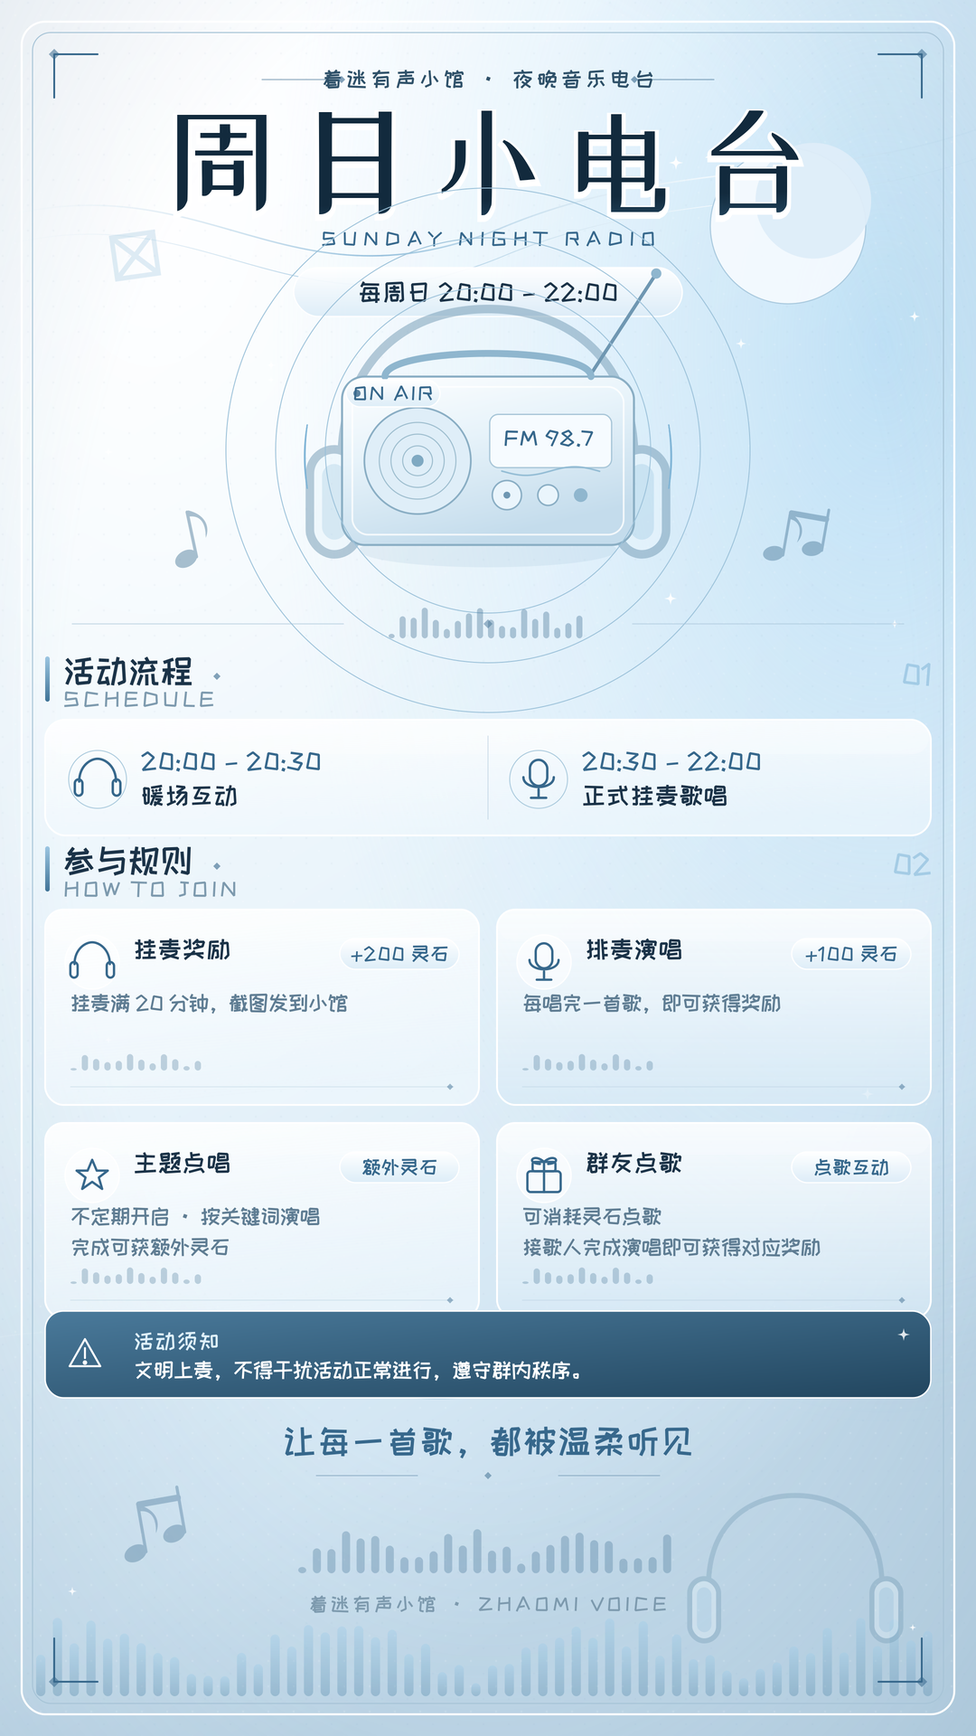
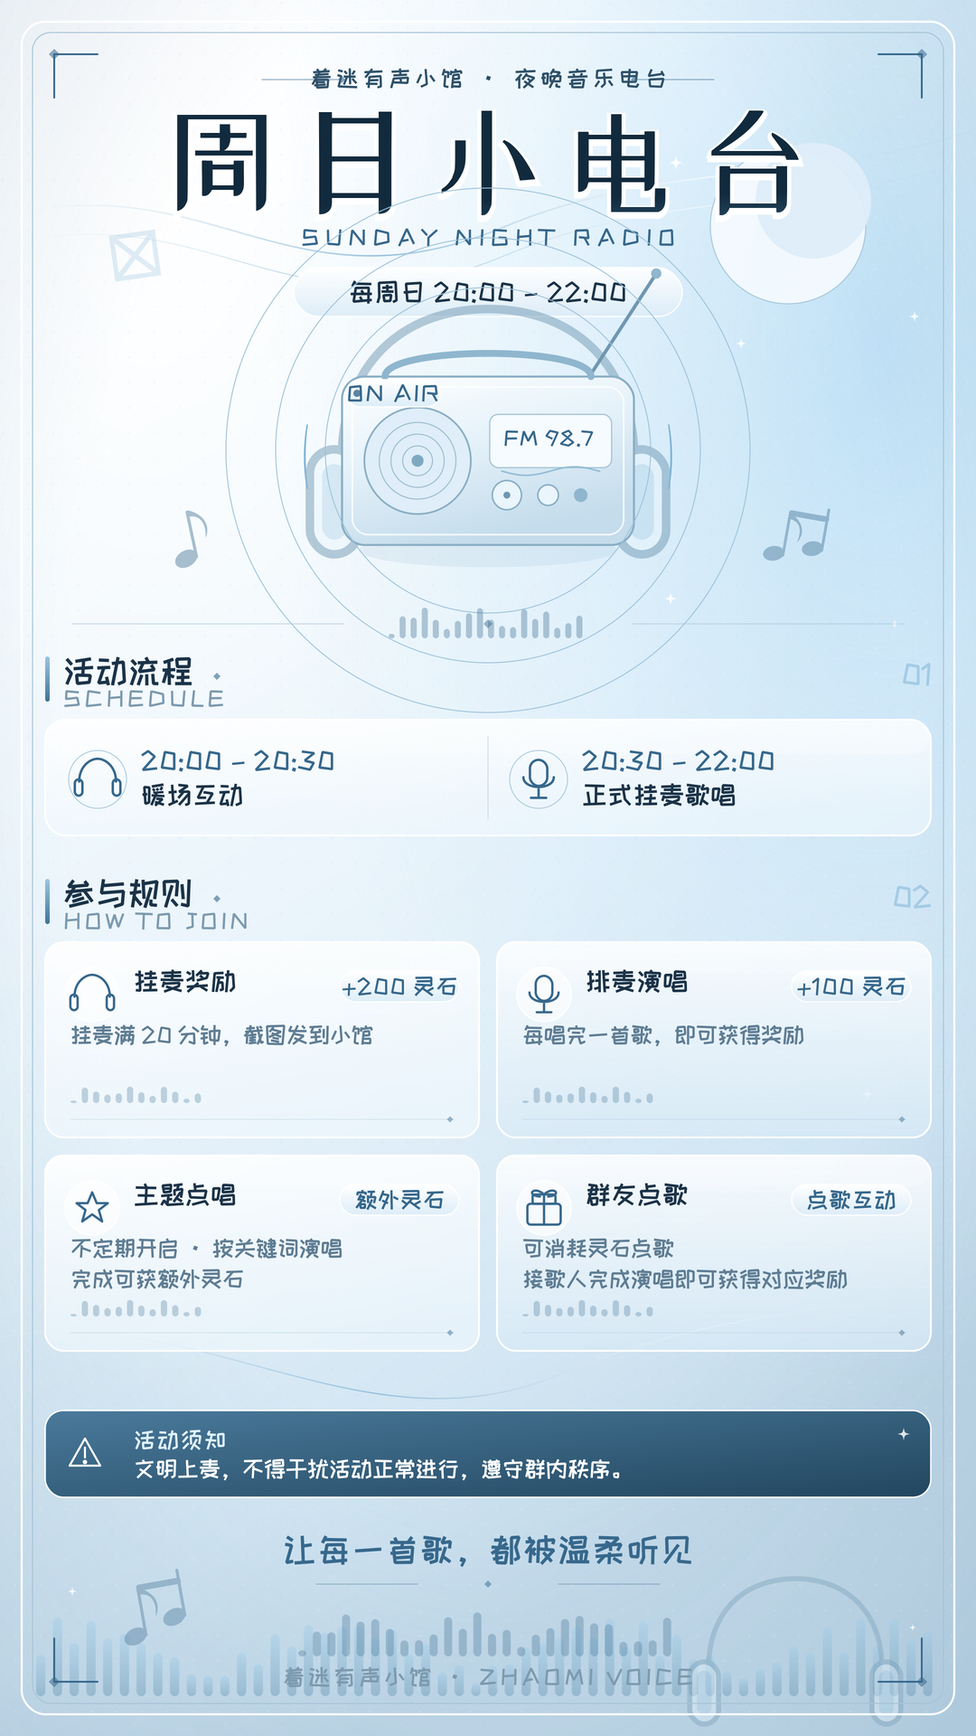
字号统一放大、周三周日板块间距拉开饱满化

diff --git a/poster/rules-posters/generate.py b/poster/rules-posters/generate.py
@@ -436,7 +436,7 @@ def section(x, y, cn, en, width=980, num=None):
     out = []
     out.append(rect(x, y - 28, 5, 50, 2.5, fill="url(#accentGrad)", op=1))
     out.append(T(x + 20, y + 2, cn, size=38, fill=INK, weight=700, font=SANS, ls=1))
-    out.append(T(x + 20, y + 28, en, size=24, fill=SOFT, weight=600, font=SANS, ls=4))
+    out.append(T(x + 20, y + 28, en, size=26, fill=SOFT, weight=600, font=SANS, ls=4))
     if num:
         out.append(T(x + width, y + 4, num, size=34, fill=ICE, weight=700, anchor="end", font=SERIF, op=0.55))
     lx1 = x + 190
@@ -447,7 +447,7 @@ def section(x, y, cn, en, width=980, num=None):
     return "".join(out)
 
 
-def pill(cx, y, w, h, text, size=24, fill="url(#pillGrad)", color=ICE_DEEP, op=1, weight=600, ls=1):
+def pill(cx, y, w, h, text, size=26, fill="url(#pillGrad)", color=ICE_DEEP, op=1, weight=600, ls=1):
     return "".join([rect(cx - w / 2, y, w, h, h / 2, fill=fill, op=op, stroke=WHITE, sw=1.4),
                     T(cx, y + h / 2 + size * 0.36, text, size=size, fill=color, weight=weight,
                       anchor="middle", font=SANS, ls=ls)])
@@ -604,18 +604,18 @@ def build_main():
     o.append(line(694, 86, 780, 86, stroke=ICE_DEEP, sw=1.2, op=0.5))
     o.append(diamond(390, 86, 4, fill=ICE_DEEP, op=0.6))
     o.append(diamond(690, 86, 4, fill=ICE_DEEP, op=0.6))
-    o.append(T(540, 94, "着迷有声小馆 · 小馆成长体系", size=24, fill=INK2, weight=600, anchor="middle", ls=5))
+    o.append(T(540, 94, "着迷有声小馆 · 小馆成长体系", size=26, fill=INK2, weight=600, anchor="middle", ls=5))
 
     # 主标题（花字艺术字体）
     o.append(T(540, 278, "音浪榜", size=196, fill=WHITE, weight=400, anchor="middle", font=ART_BOLD, ls=14, op=0.95, stroke=WHITE, sw=10))
     o.append(T(540, 274, "音浪榜", size=196, fill="url(#titleGrad)", weight=400, anchor="middle", font=ART_BOLD, ls=14))
-    o.append(T(540, 330, "VOICE WAVE  ·  LEVEL SYSTEM", size=22, fill=ICE_DEEP, weight=700, anchor="middle", ls=7, op=0.8))
+    o.append(T(540, 330, "VOICE WAVE  ·  LEVEL SYSTEM", size=26, fill=ICE_DEEP, weight=700, anchor="middle", ls=7, op=0.8))
     o.append(T(540, 386, "以声会友 · 用音浪记录每一次开麦", size=32, fill=INK2, weight=500, anchor="middle", ls=3, font=SERIF))
 
     # 三个小标签
-    o.append(pill(292, 416, 160, 44, "语音打卡", size=22, color=INK2))
-    o.append(pill(472, 416, 160, 44, "歌唱比赛", size=22, color=INK2))
-    o.append(pill(652, 416, 160, 44, "周日电台", size=22, color=INK2))
+    o.append(pill(292, 416, 160, 44, "语音打卡", size=26, color=INK2))
+    o.append(pill(472, 416, 160, 44, "歌唱比赛", size=26, color=INK2))
+    o.append(pill(652, 416, 160, 44, "周日电台", size=26, color=INK2))
     o.append(diamond(540, 435, 5, fill=ICE_DEEP, op=0.5))
 
     # 分隔装饰
@@ -657,12 +657,12 @@ def build_main():
         o.append(rect(sx + 16, ry + 4, sw - 32, rh - 10, 14, fill=WHITE, op=0.4))
         o.append(ic(sx + 54, ry + rh / 2 + 1, 1.1, c=ICE_DEEP))
         o.append(circle(sx + 54, ry + rh / 2 + 1, 28, stroke="#a9c9dc", sw=1, op=0.65))
-        o.append(T(sx + 96, ry + 36, title, size=28, fill=INK, weight=700, ls=1))
-        o.append(T(sx + 96, ry + 66, sub, size=22, fill=MUT, weight=400, ls=0.5))
+        o.append(T(sx + 96, ry + 36, title, size=30, fill=INK, weight=700, ls=1))
+        o.append(T(sx + 96, ry + 66, sub, size=26, fill=MUT, weight=400, ls=0.5))
         # 分值徽章（数值+单位统一字号，居中）
         label = f"{val}{unit}"
         o.append(rect(sx + sw - 128, ry + (rh - 40) / 2, 108, 40, 20, fill="url(#pillGrad)", op=0.95, stroke=ICE, sw=1))
-        o.append(T(sx + sw - 74, ry + (rh - 40) / 2 + 29, label, size=24, fill=ICE_DEEP, weight=800, anchor="middle", font=SANS))
+        o.append(T(sx + sw - 74, ry + (rh - 40) / 2 + 29, label, size=26, fill=ICE_DEEP, weight=800, anchor="middle", font=SANS))
         ry += rh
 
     # ===== 二、扣分项 =====
@@ -676,9 +676,9 @@ def build_main():
     ry = dy + 60
     for i, (title, sub, val) in enumerate(deductions):
         o.append(circle(dx + 46, ry + 48, 27, fill=WHITE, op=0.55, stroke=ICE, sw=1.4))
-        o.append(T(dx + 46, ry + 56, val, size=24, fill=ICE_DEEP, weight=800, anchor="middle"))
-        o.append(T(dx + 88, ry + 42, title, size=24, fill=INK, weight=700))
-        o.append(T(dx + 88, ry + 82, sub, size=24, fill=MUT))
+        o.append(T(dx + 46, ry + 56, val, size=26, fill=ICE_DEEP, weight=800, anchor="middle"))
+        o.append(T(dx + 88, ry + 42, title, size=26, fill=INK, weight=700))
+        o.append(T(dx + 88, ry + 82, sub, size=26, fill=MUT))
         if i == 0:
             o.append(line(dx + 24, ry + 104, dx + dw - 24, ry + 104, stroke=LINE, sw=1, op=0.55))
         ry += 108
@@ -687,7 +687,7 @@ def build_main():
     o.append(vinyl(870, 890, 74, op=0.35, label="♪"))
     o.append(note(800, 930, 0.85, fill=ICE_DEEP, op=0.35, rot=-12, double=True))
     o.append(sparkle(960, 948, 7, fill=WHITE, op=0.9))
-    o.append(T(870, 996, "KEEP  THE  GROOVE", size=24, fill=SOFT, weight=600, anchor="middle", ls=4, op=0.8))
+    o.append(T(870, 996, "KEEP  THE  GROOVE", size=26, fill=SOFT, weight=600, anchor="middle", ls=4, op=0.8))
 
     # ===== 三、等级称号 =====
     ly = 1040
@@ -710,7 +710,7 @@ def build_main():
         o.append(circle(120, y + 25, 6, fill=WHITE, stroke=ICE_DEEP, sw=2))
         grad = "url(#levelGrad6)" if i == 5 else "url(#levelGrad)"
         o.append(rect(84, y + 7, 72, 36, 18, fill=grad, op=1, stroke=WHITE, sw=1.2))
-        o.append(T(120, y + 32, lv, size=22, fill=WHITE, weight=700, anchor="middle", font=SANS))
+        o.append(T(120, y + 32, lv, size=26, fill=WHITE, weight=700, anchor="middle", font=SANS))
         # 数值区间：左值右对齐、破折号居中、右值左对齐，确保所有行破折号垂直对齐
         o.append(T(238, y + 34, lo, size=26, fill=INK2, weight=600, anchor="end", ls=0.5))
         o.append(T(244, y + 34, "–", size=26, fill=INK2, weight=600, anchor="middle", ls=0.5))
@@ -742,9 +742,9 @@ def build_main():
     for i, (lv, name, desc) in enumerate(perks):
         y = ry + i * 50
         o.append(rect(66, y, 70, 32, 16, fill="url(#levelGrad6)" if i == 5 else "url(#levelGrad)", op=0.95))
-        o.append(T(101, y + 23, lv, size=24, fill=WHITE, weight=700, anchor="middle"))
-        o.append(T(158, y + 24, name, size=24, fill=INK, weight=700, ls=1))
-        o.append(T(330, y + 24, desc, size=24, fill=MUT, weight=400))
+        o.append(T(101, y + 23, lv, size=26, fill=WHITE, weight=700, anchor="middle"))
+        o.append(T(158, y + 24, name, size=26, fill=INK, weight=700, ls=1))
+        o.append(T(330, y + 24, desc, size=26, fill=MUT, weight=400))
         o.append(icon_shield(1004, y + 16, 0.7, c=ICE))
         if i < 5:
             o.append(line(66, y + 44, 1014, y + 44, stroke=LINE, sw=0.8, op=0.35))
@@ -775,15 +775,15 @@ def build_main():
         y = card_y + 12 + row * 58
         o.append(rect(x, y, 456, 48, 12, fill=WHITE, op=0.45, stroke=WHITE, sw=1))
         o.append(icon_coin(x + 28, y + 24, 0.85, c=ICE_DEEP))
-        o.append(T(x + 50, y + 31, name, size=24, fill=INK2, weight=500))
+        o.append(T(x + 50, y + 31, name, size=26, fill=INK2, weight=500))
         # 数值+单位统一字号，合并渲染避免遮挡
         label = price if "音浪/次" in price else f"{price}音浪"
-        o.append(T(x + 444, y + 32, label, size=24, fill=ICE_DEEP, weight=800, anchor="end"))
+        o.append(T(x + 444, y + 32, label, size=26, fill=ICE_DEEP, weight=800, anchor="end"))
     # 说明行
     note_y = card_y + 12 + 5 * 58 + 8
     o.append(rect(66, note_y, 948, 34, 10, fill=ICE_DEEP, op=0.08))
     o.append(icon_info(86, note_y + 17, 0.65, c=ICE_DEEP))
-    o.append(T(112, note_y + 24, "说明：小馆等级前缀同步主群，六字前缀不同步。", size=22, fill=MUT, weight=500))
+    o.append(T(112, note_y + 24, "说明：小馆等级前缀同步主群，六字前缀不同步。", size=26, fill=MUT, weight=500))
 
     # ===== 底部二维码 =====
     qy = 2292
@@ -795,10 +795,10 @@ def build_main():
     for bx, by, sx_, sy_ in [(68, qy + 14, 1, 1), (270, qy + 14, -1, 1), (68, qy + 202, 1, -1), (270, qy + 202, -1, -1)]:
         o.append(path(f"M {bx} {by + sy_*18} L {bx} {by} L {bx + sx_*18} {by}", stroke=ICE_DEEP, sw=3, op=0.75))
 
-    o.append(T(314, qy + 50, "SCAN  TO  ENTER", size=22, fill=SOFT, weight=700, ls=5))
+    o.append(T(314, qy + 50, "SCAN  TO  ENTER", size=26, fill=SOFT, weight=700, ls=5))
     o.append(T(314, qy + 92, "扫码进入 · 音浪榜", size=34, fill=INK, weight=700, font=SERIF, ls=2))
-    o.append(T(314, qy + 132, "实时查看小馆等级、音浪明细与榜单排名", size=22, fill=MUT, ls=0.5))
-    o.append(T(314, qy + 198, "长按识别二维码 · 即刻加入", size=22, fill=SOFT, weight=500, ls=1))
+    o.append(T(314, qy + 132, "实时查看小馆等级、音浪明细与榜单排名", size=26, fill=MUT, ls=0.5))
+    o.append(T(314, qy + 198, "长按识别二维码 · 即刻加入", size=26, fill=SOFT, weight=500, ls=1))
 
     # 右侧装饰
     o.append(wave_bars(800, qy + 108, 190, 56, n=16, fill=ICE_DEEP, op=0.32))
@@ -838,16 +838,16 @@ def build_wednesday():
     # 眉标
     o.append(line(306, 88, 390, 88, stroke=ICE_DEEP, sw=1.2, op=0.5))
     o.append(line(690, 88, 774, 88, stroke=ICE_DEEP, sw=1.2, op=0.5))
-    o.append(T(540, 96, "着迷有声小馆 · 音乐活动", size=24, fill=INK2, weight=600, anchor="middle", ls=5))
+    o.append(T(540, 96, "着迷有声小馆 · 音乐活动", size=26, fill=INK2, weight=600, anchor="middle", ls=5))
     o.append(diamond(394, 88, 4, fill=ICE_DEEP, op=0.6))
     o.append(diamond(686, 88, 4, fill=ICE_DEEP, op=0.6))
 
     # 主标题（花字艺术字体）
     o.append(T(540, 226, "周三歌唱小比赛", size=116, fill=WHITE, weight=400, anchor="middle", font=ART_FUN, ls=2, stroke=WHITE, sw=9))
     o.append(T(540, 223, "周三歌唱小比赛", size=116, fill="url(#titleGrad)", weight=400, anchor="middle", font=ART_FUN, ls=2))
-    o.append(T(540, 266, "WEDNESDAY  SINGING  CONTEST", size=22, fill=ICE_DEEP, weight=700, anchor="middle", ls=6))
-    o.append(pill(540, 296, 430, 54, "每周三  20:00 – 22:00", size=28, color=INK, weight=700, ls=1))
-    o.append(T(540, 378, "无主题挑战  ·  馆长主题  ·  现场打分", size=24, fill=MUT, weight=500, anchor="middle", ls=2))
+    o.append(T(540, 266, "WEDNESDAY  SINGING  CONTEST", size=26, fill=ICE_DEEP, weight=700, anchor="middle", ls=6))
+    o.append(pill(540, 296, 430, 54, "每周三  20:00 – 22:00", size=30, color=INK, weight=700, ls=1))
+    o.append(T(540, 378, "无主题挑战  ·  馆长主题  ·  现场打分", size=26, fill=MUT, weight=500, anchor="middle", ls=2))
 
     # 分隔
     o.append(line(80, 408, 380, 408, stroke=LINE, sw=1.2, op=0.55))
@@ -869,25 +869,25 @@ def build_wednesday():
         x = 62 + i * 488
         o.append(ic(x + 46, card_y + 76, 1.25, c=ICE_DEEP))
         o.append(circle(x + 46, card_y + 76, 34, stroke="#a9c9dc", sw=1, op=0.65))
-        o.append(T(x + 94, card_y + 66, time, size=28, fill=ICE_DEEP, weight=800, font=SANS, ls=1))
-        o.append(T(x + 94, card_y + 104, name, size=28, fill=INK, weight=700, ls=1))
-        o.append(T(x + 94, card_y + 132, sub, size=24, fill=MUT))
+        o.append(T(x + 94, card_y + 66, time, size=30, fill=ICE_DEEP, weight=800, font=SANS, ls=1))
+        o.append(T(x + 94, card_y + 104, name, size=30, fill=INK, weight=700, ls=1))
+        o.append(T(x + 94, card_y + 132, sub, size=26, fill=MUT))
         if i == 0:
             o.append(line(540, card_y + 22, 540, card_y + 126, stroke=LINE, sw=1, op=0.5))
 
     # ===== 比赛模式 =====
-    my = 710
+    my = 750
     o.append(section(50, my, "比赛模式", "HOW IT WORKS", width=980, num="02"))
     card_y = my + 42
     o.append(rect(50, card_y, 980, 126, 22, fill="url(#glassDeep)", op=1, stroke=WHITE, sw=2))
     o.append(icon_mic(94, card_y + 62, 1.45, c=ICE_DEEP))
     o.append(circle(94, card_y + 62, 38, stroke="#a9c9dc", sw=1, op=0.65))
     o.append(T(150, card_y + 56, "无主题 或 由馆长发布主题", size=30, fill=INK, weight=700, ls=1))
-    o.append(T(150, card_y + 94, "按要求唱歌，并进行现场打分", size=24, fill=MUT))
-    o.append(pill(940, card_y + 48, 118, 36, "现场演唱", size=22, color=ICE_DEEP))
+    o.append(T(150, card_y + 94, "按要求唱歌，并进行现场打分", size=26, fill=MUT))
+    o.append(pill(940, card_y + 48, 118, 36, "现场演唱", size=26, color=ICE_DEEP))
 
     # ===== 投票计分规则 =====
-    vy = 930
+    vy = 1000
     o.append(section(50, vy, "投票计分规则", "VOTING & SCORING", width=980, num="03"))
 
     # 卡 1
@@ -896,10 +896,10 @@ def build_wednesday():
     o.append(T(80, c1y + 112, "01", size=86, fill=ICE, weight=900, font=SERIF, op=0.28))
     o.append(icon_ballot(122, c1y + 54, 1.25, c=ICE_DEEP))
     o.append(T(176, c1y + 48, "参赛人数充足", size=30, fill=INK, weight=700, ls=1))
-    o.append(pill(830, c1y + 22, 168, 34, "开启群众投票", size=22, color=ICE_DEEP))
-    o.append(T(176, c1y + 86, "开启投票，发放投票积分，抢到积分才可参与投票。", size=24, fill=MUT))
-    o.append(T(176, c1y + 120, "每人 3 票，不可投给自己，最终按投票结果排名。", size=24, fill=MUT))
-    o.append(T(176, c1y + 150, "公平开麦 · 让每一票都被看见", size=24, fill=SOFT, ls=1))
+    o.append(pill(830, c1y + 22, 168, 34, "开启群众投票", size=26, color=ICE_DEEP))
+    o.append(T(176, c1y + 86, "开启投票，发放投票积分，抢到积分才可参与投票。", size=26, fill=MUT))
+    o.append(T(176, c1y + 120, "每人 3 票，不可投给自己，最终按投票结果排名。", size=26, fill=MUT))
+    o.append(T(176, c1y + 150, "公平开麦 · 让每一票都被看见", size=26, fill=SOFT, ls=1))
 
     # 卡 2
     c2y = c1y + 184
@@ -907,31 +907,31 @@ def build_wednesday():
     o.append(T(80, c2y + 108, "02", size=86, fill=ICE, weight=900, font=SERIF, op=0.24))
     o.append(icon_ballot(122, c2y + 48, 1.15, c=ICE_DEEP))
     o.append(T(176, c2y + 46, "参赛人数较少", size=30, fill=INK, weight=700, ls=1))
-    o.append(pill(836, c2y + 20, 156, 34, "管理员打分", size=22, color=ICE_DEEP))
-    o.append(T(176, c2y + 86, "不开启群众投票，由管理员统一按演唱表现打分。", size=24, fill=MUT))
-    o.append(T(176, c2y + 118, "专注演唱本身，实力就是最好的答案。", size=24, fill=SOFT, ls=1))
+    o.append(pill(836, c2y + 20, 156, 34, "管理员打分", size=26, color=ICE_DEEP))
+    o.append(T(176, c2y + 86, "不开启群众投票，由管理员统一按演唱表现打分。", size=26, fill=MUT))
+    o.append(T(176, c2y + 118, "专注演唱本身，实力就是最好的答案。", size=26, fill=SOFT, ls=1))
 
     # ===== 三个关键词徽章 =====
-    by = 1332
+    by = 1472
     badges = [("3 票", "每人投票权", icon_ballot), ("不可自投", "保持公平", icon_shield), ("现场打分", "实力说话", icon_star_badge)]
     for i, (big, small, ic) in enumerate(badges):
         cx = 200 + i * 340
         o.append(circle(cx, by + 56, 68, fill=WHITE, op=0.5, stroke=WHITE, sw=1.6))
         o.append(circle(cx, by + 56, 58, fill="none", stroke=ICE, sw=1, op=0.65, dash="3 5"))
         o.append(ic(cx, by + 28, 1.15, c=ICE_DEEP))
-        o.append(T(cx, by + 76, big, size=28, fill=INK, weight=800, anchor="middle", ls=1))
-        o.append(T(cx, by + 102, small, size=22, fill=SOFT, anchor="middle", ls=1))
-    o.append(T(540, 1506, "以声会友 · 唱出你的高光时刻", size=38, fill=ICE_DEEP, weight=700, anchor="middle", font=SERIF, ls=3))
-    o.append(line(380, 1530, 470, 1530, stroke=ICE_DEEP, sw=1, op=0.4))
-    o.append(line(610, 1530, 700, 1530, stroke=ICE_DEEP, sw=1, op=0.4))
-    o.append(diamond(540, 1530, 4, fill=ICE_DEEP, op=0.5))
+        o.append(T(cx, by + 76, big, size=30, fill=INK, weight=800, anchor="middle", ls=1))
+        o.append(T(cx, by + 102, small, size=26, fill=SOFT, anchor="middle", ls=1))
+    o.append(T(540, 1578, "以声会友 · 唱出你的高光时刻", size=38, fill=ICE_DEEP, weight=700, anchor="middle", font=SERIF, ls=3))
+    o.append(line(380, 1602, 470, 1602, stroke=ICE_DEEP, sw=1, op=0.4))
+    o.append(line(610, 1602, 700, 1602, stroke=ICE_DEEP, sw=1, op=0.4))
+    o.append(diamond(540, 1602, 4, fill=ICE_DEEP, op=0.5))
 
     # 底部
-    o.append(trophy(170, 1624, 1.0, op=0.75))
-    o.append(note(860, 1610, 1.0, fill=ICE_DEEP, op=0.4, rot=10, double=True))
-    o.append(sparkle(960, 1562, 8, fill=WHITE, op=0.9))
-    o.append(wave_bars(360, 1594, 360, 46, n=24, fill=ICE_DEEP, op=0.32))
-    o.append(T(540, 1728, "着迷有声小馆  ·  ZHAOMI  VOICE", size=22, fill=SOFT, weight=600, anchor="middle", ls=4))
+    o.append(trophy(170, 1700, 1.0, op=0.75))
+    o.append(note(860, 1686, 1.0, fill=ICE_DEEP, op=0.4, rot=10, double=True))
+    o.append(sparkle(960, 1638, 8, fill=WHITE, op=0.9))
+    o.append(wave_bars(360, 1670, 360, 46, n=24, fill=ICE_DEEP, op=0.32))
+    o.append(T(540, 1804, "着迷有声小馆  ·  ZHAOMI  VOICE", size=26, fill=SOFT, weight=600, anchor="middle", ls=4))
 
     o.append(frame(W, H))
     o.append('</svg>')
@@ -957,15 +957,15 @@ def build_sunday():
     # 眉标
     o.append(line(290, 88, 374, 88, stroke=ICE_DEEP, sw=1.2, op=0.5))
     o.append(line(706, 88, 790, 88, stroke=ICE_DEEP, sw=1.2, op=0.5))
-    o.append(T(540, 96, "着迷有声小馆 · 夜晚音乐电台", size=24, fill=INK2, weight=600, anchor="middle", ls=5))
+    o.append(T(540, 96, "着迷有声小馆 · 夜晚音乐电台", size=26, fill=INK2, weight=600, anchor="middle", ls=5))
     o.append(diamond(378, 88, 4, fill=ICE_DEEP, op=0.6))
     o.append(diamond(702, 88, 4, fill=ICE_DEEP, op=0.6))
 
     # 主标题（花字艺术字体）
     o.append(T(540, 232, "周日小电台", size=136, fill=WHITE, weight=400, anchor="middle", font=ART_ELEGANT, ls=8, stroke=WHITE, sw=9))
     o.append(T(540, 229, "周日小电台", size=136, fill="url(#titleGrad)", weight=400, anchor="middle", font=ART_ELEGANT, ls=8))
-    o.append(T(540, 272, "SUNDAY  NIGHT  RADIO", size=22, fill=ICE_DEEP, weight=700, anchor="middle", ls=7))
-    o.append(pill(540, 296, 430, 54, "每周日  20:00 – 22:00", size=28, color=INK, weight=700, ls=1))
+    o.append(T(540, 272, "SUNDAY  NIGHT  RADIO", size=26, fill=ICE_DEEP, weight=700, anchor="middle", ls=7))
+    o.append(pill(540, 296, 430, 54, "每周日  20:00 – 22:00", size=30, color=INK, weight=700, ls=1))
 
     # 收音机主视觉
     o.append(headphones(540, 470, 1.35, op=0.5))
@@ -977,7 +977,7 @@ def build_sunday():
         o.append(path(f"M 740 470 A {rr} {rr} 0 0 1 740 540", stroke=ICE, sw=1.3, op=0.3))
         o.append(path(f"M 340 470 A {rr} {rr} 0 0 0 340 540", stroke=ICE, sw=1.3, op=0.3))
     # ON AIR 灯牌
-    o.append(pill(435, 420, 104, 30, "ON AIR", size=22, color=ICE_DEEP, weight=700, ls=2))
+    o.append(pill(435, 420, 104, 30, "ON AIR", size=26, color=ICE_DEEP, weight=700, ls=2))
     o.append(circle(395, 435, 4, fill=ICE_DEEP, op=0.8))
     o.append(note(206, 618, 1.0, fill=ICE_DEEP, op=0.42, rot=-12))
     o.append(note(856, 612, 0.9, fill=ICE_DEEP, op=0.4, rot=10, double=True))
@@ -1004,13 +1004,13 @@ def build_sunday():
         x = 62 + i * 488
         o.append(ic(x + 46, card_y + 66, 1.20, c=ICE_DEEP))
         o.append(circle(x + 46, card_y + 66, 32, stroke="#a9c9dc", sw=1, op=0.65))
-        o.append(T(x + 94, card_y + 56, time, size=28, fill=ICE_DEEP, weight=800, ls=1))
-        o.append(T(x + 94, card_y + 94, name, size=28, fill=INK, weight=700, ls=1))
+        o.append(T(x + 94, card_y + 56, time, size=30, fill=ICE_DEEP, weight=800, ls=1))
+        o.append(T(x + 94, card_y + 94, name, size=30, fill=INK, weight=700, ls=1))
         if i == 0:
             o.append(line(540, card_y + 18, 540, card_y + 110, stroke=LINE, sw=1, op=0.5))
 
     # ===== 参与规则 =====
-    ry = 964
+    ry = 1000
     o.append(section(50, ry, "参与规则", "HOW TO JOIN", width=980, num="02"))
     rules = [
         ("挂麦奖励", "挂麦满 20 分钟，截图发到小馆", "+200 灵石", icon_headphone),
@@ -1029,33 +1029,33 @@ def build_sunday():
         o.append(rect(x + 1, y + 1, w - 2, 34, 18, fill=WHITE, op=0.18))
         o.append(circle(x + 52, y + 58, 30, fill=WHITE, op=0.55, stroke=WHITE, sw=1.4))
         o.append(ic(x + 52, y + 58, 1.15, c=ICE_DEEP))
-        o.append(T(x + 98, y + 54, title, size=28, fill=INK, weight=700, ls=1))
-        o.append(pill(x + w - 88, y + 32, 132, 34, tag, size=22, color=ICE_DEEP, weight=700))
+        o.append(T(x + 98, y + 54, title, size=30, fill=INK, weight=700, ls=1))
+        o.append(pill(x + w - 88, y + 32, 132, 34, tag, size=26, color=ICE_DEEP, weight=700))
         lines = body.split("\n") if "\n" in body else wrap(body, 24, w - 56)
         for j, ln in enumerate(lines[:3]):
-            o.append(T(x + 28, y + 112 + j * 34, ln, size=24, fill=MUT))
+            o.append(T(x + 28, y + 112 + j * 34, ln, size=26, fill=MUT))
         o.append(wave_bars(x + 28, y + h - 58, 150, 20, n=12, fill=ICE_DEEP, op=0.28))
         o.append(line(x + 28, y + h - 20, x + w - 28, y + h - 20, stroke=LINE, sw=0.8, op=0.4))
         o.append(diamond(x + w - 32, y + h - 20, 3.5, fill=ICE_DEEP, op=0.45))
 
     # ===== 活动须知 =====
-    ny = 1450
+    ny = 1560
     o.append(rect(50, ny, 980, 96, 20, fill="url(#levelGrad)", op=1, stroke=WHITE, sw=1.6))
     o.append(icon_warn(94, ny + 48, 1.0, c=WHITE))
-    o.append(T(148, ny + 42, "活动须知", size=24, fill="#dff1fc", weight=700, ls=2))
-    o.append(T(148, ny + 74, "文明上麦，不得干扰活动正常进行，遵守群内秩序。", size=24, fill=WHITE, weight=500))
+    o.append(T(148, ny + 42, "活动须知", size=26, fill="#dff1fc", weight=700, ls=2))
+    o.append(T(148, ny + 74, "文明上麦，不得干扰活动正常进行，遵守群内秩序。", size=26, fill=WHITE, weight=500))
     o.append(sparkle(1000, ny + 26, 7, fill=WHITE, op=0.85))
 
     # 结尾
-    o.append(T(540, 1608, "让每一首歌，都被温柔听见", size=38, fill=ICE_DEEP, weight=700, anchor="middle", font=SERIF, ls=3))
-    o.append(line(350, 1632, 462, 1632, stroke=ICE_DEEP, sw=1, op=0.4))
-    o.append(line(618, 1632, 730, 1632, stroke=ICE_DEEP, sw=1, op=0.4))
-    o.append(diamond(540, 1632, 4, fill=ICE_DEEP, op=0.5))
+    o.append(T(540, 1728, "让每一首歌，都被温柔听见", size=38, fill=ICE_DEEP, weight=700, anchor="middle", font=SERIF, ls=3))
+    o.append(line(350, 1752, 462, 1752, stroke=ICE_DEEP, sw=1, op=0.4))
+    o.append(line(618, 1752, 730, 1752, stroke=ICE_DEEP, sw=1, op=0.4))
+    o.append(diamond(540, 1752, 4, fill=ICE_DEEP, op=0.5))
 
-    o.append(note(150, 1718, 1.0, fill=ICE_DEEP, op=0.35, rot=-10, double=True))
-    o.append(headphones(880, 1730, 0.8, op=0.35))
-    o.append(wave_bars(330, 1690, 420, 50, n=26, fill=ICE_DEEP, op=0.3))
-    o.append(T(540, 1782, "着迷有声小馆  ·  ZHAOMI  VOICE", size=22, fill=SOFT, weight=600, anchor="middle", ls=4))
+    o.append(note(150, 1810, 1.0, fill=ICE_DEEP, op=0.35, rot=-10, double=True))
+    o.append(headphones(880, 1822, 0.8, op=0.35))
+    o.append(wave_bars(330, 1782, 420, 50, n=26, fill=ICE_DEEP, op=0.3))
+    o.append(T(540, 1864, "着迷有声小馆  ·  ZHAOMI  VOICE", size=26, fill=SOFT, weight=600, anchor="middle", ls=4))
 
     o.append(frame(W, H))
     o.append('</svg>')
